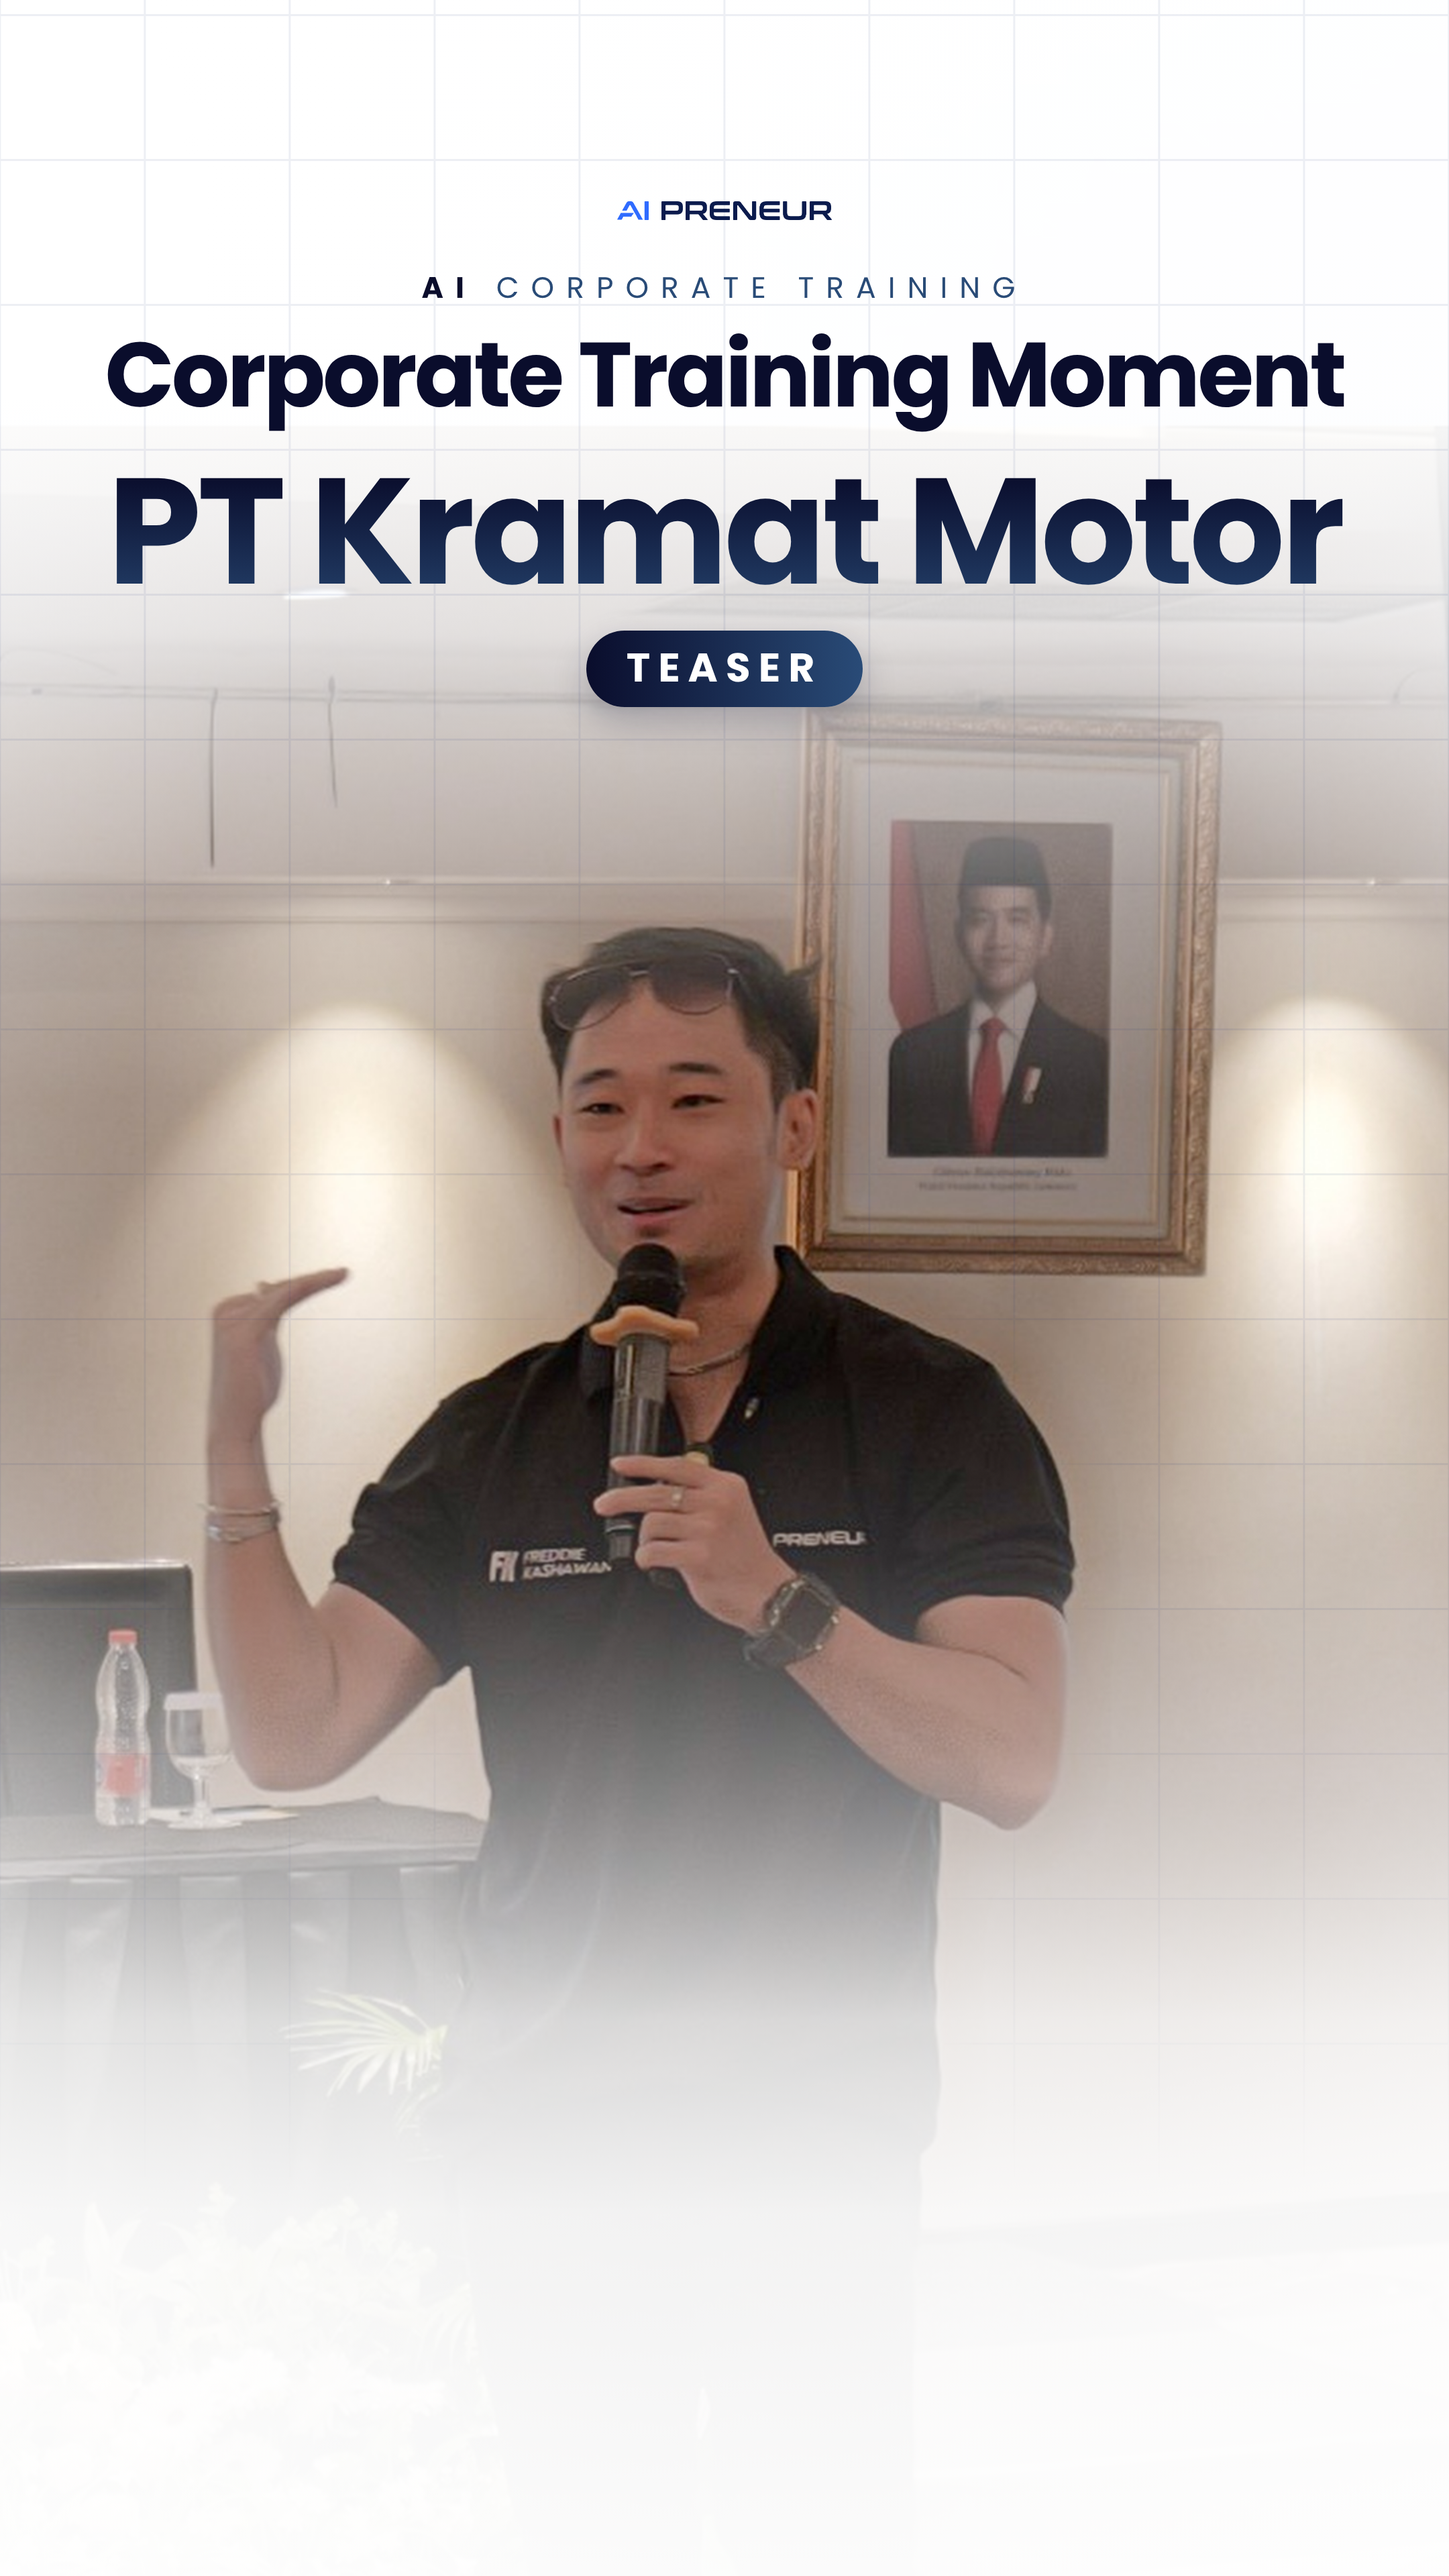
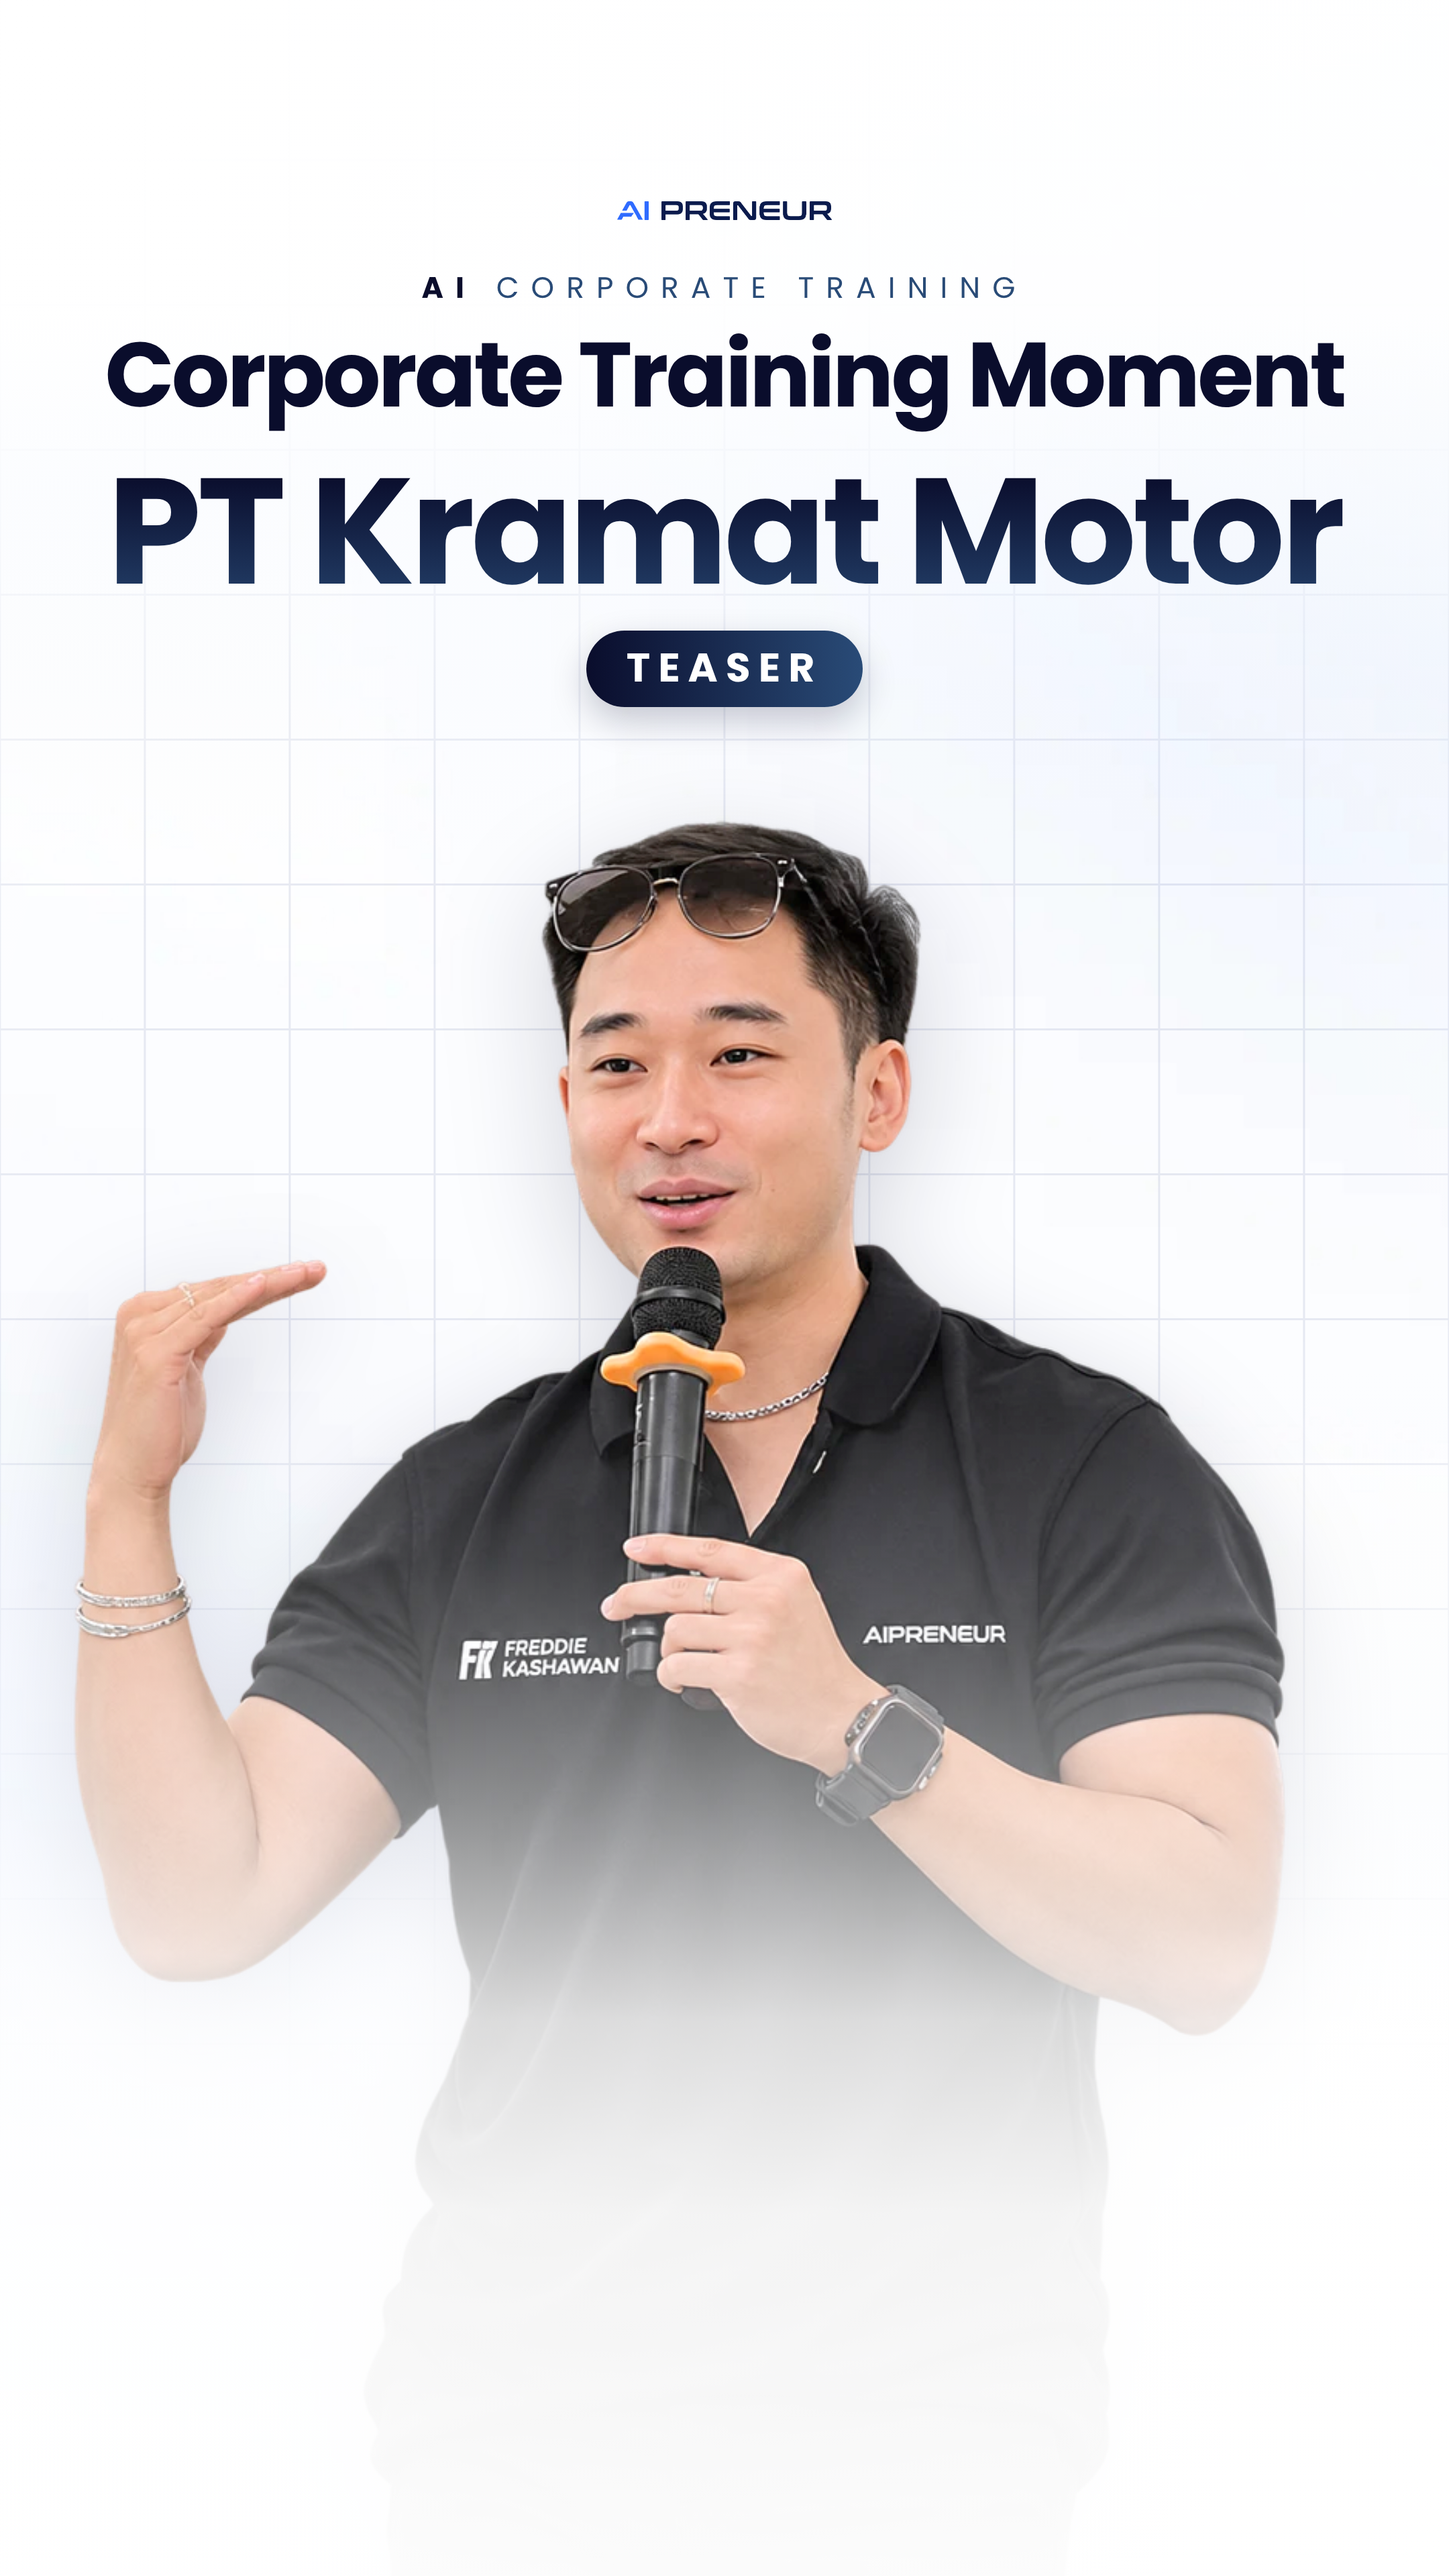
Cover Kramat Motor: use client's cutout on the white brand plate
Claude-Session: https://claude.ai/code/session_01FYKeHQKRYJvqWR6SYDVSQw

diff --git a/projects/cover_kramat_motor/thumbnail/cover.html b/projects/cover_kramat_motor/thumbnail/cover.html
@@ -15,13 +15,13 @@
   #c { position: relative; width: 1080px; height: 1920px; overflow: hidden; }
   #bg { position: absolute; left: 0; top: 0; width: 1080px; height: 1920px; }
   .layer { position: absolute; left: 0; width: 1080px; }
-  #top { top: 0; height: 820px; background: linear-gradient(180deg, rgba(255,255,255,.98) 0%, rgba(255,255,255,.95) 36%, rgba(250,252,255,.74) 58%, rgba(246,249,255,.28) 80%, rgba(246,249,255,0) 100%); }
+  #top { top: 0; height: 640px; background: linear-gradient(180deg, rgba(255,255,255,.98) 0%, rgba(255,255,255,.95) 36%, rgba(250,252,255,.74) 58%, rgba(246,249,255,.28) 80%, rgba(246,249,255,0) 100%); }
   #bot { bottom: 0; height: 900px; background: linear-gradient(0deg, rgba(255,255,255,.98) 0%, rgba(255,255,255,.95) 30%, rgba(255,255,255,.84) 46%, rgba(250,252,255,.5) 64%, rgba(246,249,255,.16) 84%, rgba(246,249,255,0) 100%); }
   #vig { top: 0; height: 1920px; background: radial-gradient(ellipse 780px 1180px at 50% 54%, rgba(255,255,255,0) 60%, rgba(255,255,255,.5) 100%); }
-  #grid { top: 0; height: 1920px; opacity: .07;
+  #grid { top: 0; height: 1920px; opacity: .09;
     background-image: linear-gradient(90deg, rgba(20,44,120,1) 0 1.6px, transparent 1.6px), linear-gradient(0deg, rgba(20,44,120,1) 0 1.6px, transparent 1.6px);
     background-size: 108px 108px; background-position: -0.8px 12px;
-    -webkit-mask-image: url(../assets/gridmask.png); mask-image: url(../assets/gridmask.png); -webkit-mask-size: 1080px 1920px; mask-size: 1080px 1920px; }
+    -webkit-mask-image: url(../assets/gridmask2.png); mask-image: url(../assets/gridmask2.png); -webkit-mask-size: 1080px 1920px; mask-size: 1080px 1920px; }
   .ctr { position: absolute; left: 0; width: 1080px; text-align: center; white-space: nowrap; }
   .t { display: none; }
   body.text .t { display: block; }
@@ -32,6 +32,7 @@
   #h2 { top: 340px; font: 700 112px/1 Poppins; letter-spacing: -3px;
     background: linear-gradient(180deg, #0a0d2c 10%, #294b77 95%); -webkit-background-clip: text; background-clip: text; color: transparent;
     padding-bottom: .26em; }
+  #person { position: absolute; left: -98px; top: 600px; width: 1266px; height: auto; filter: drop-shadow(0 24px 40px rgba(10,13,44,.18)); }
   #chip { position: absolute; left: 0; width: 1080px; top: 470px; text-align: center; }
   #chip span { display: inline-block; padding: 13px 30px 14px; border-radius: 40px; background: linear-gradient(90deg, #0a0d2c, #294b77);
     font: 700 30px/1 Poppins; letter-spacing: 6px; color: #fff; box-shadow: 0 10px 26px rgba(10,13,44,.22); }
@@ -39,11 +40,12 @@
 </head>
 <body class="text">
 <div id="c">
-  <img id="bg" src="../assets/bg.jpg" alt="" />
+  <img id="bg" src="../assets/plate.jpg" alt="" />
+  <div class="layer" id="grid"></div>
+  <img id="person" src="../assets/person.png" alt="" />
   <div class="layer" id="vig"></div>
   <div class="layer" id="top"></div>
   <div class="layer" id="bot"></div>
-  <div class="layer" id="grid"></div>
   <img class="t" id="logo" src="../assets/logo_navy_trim.png" alt="AI PRENEUR" />
   <div class="ctr t" id="eyebrow"><b>AI</b>&nbsp;CORPORATE TRAINING</div>
   <div class="ctr t" id="h1">Corporate Training Moment</div>
@@ -57,7 +59,7 @@
   const fit = (id, max) => { const e = document.getElementById(id); let s = parseFloat(getComputedStyle(e).fontSize);
     const r = document.createRange(); r.selectNodeContents(e);
     while (r.getBoundingClientRect().width > max && s > 40) { s -= 2; e.style.fontSize = s + "px"; } };
-  Promise.all([document.fonts.ready, new Promise((r) => { const i = document.getElementById("bg"); if (i.complete && i.naturalWidth) r(); else { i.onload = r; i.onerror = r; } })]).then(() => {
+  Promise.all([document.fonts.ready, new Promise((r) => { const i = document.getElementById("person"); if (i.complete && i.naturalWidth) r(); else { i.onload = r; i.onerror = r; } })]).then(() => {
     if (document.body.classList.contains("text")) { fit("h1", 940); fit("h2", 960); }
     window.COVER_READY = true;
   });
